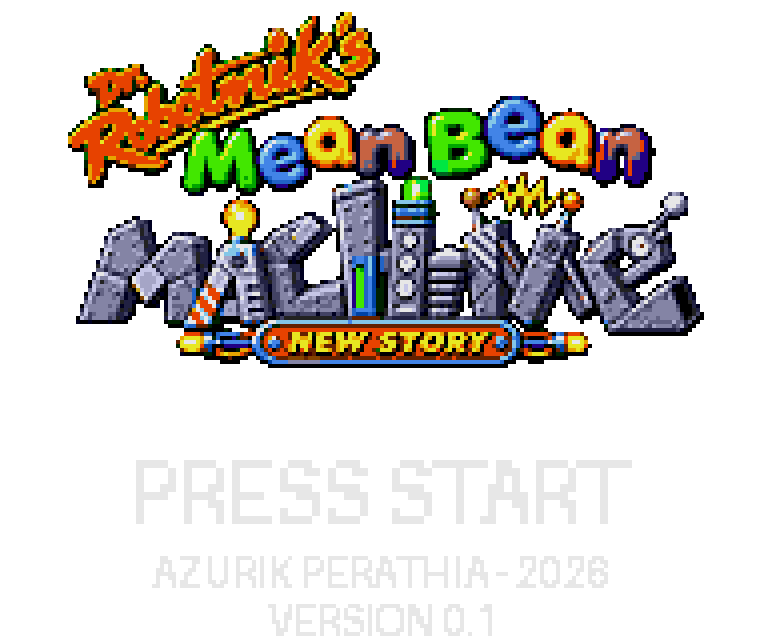
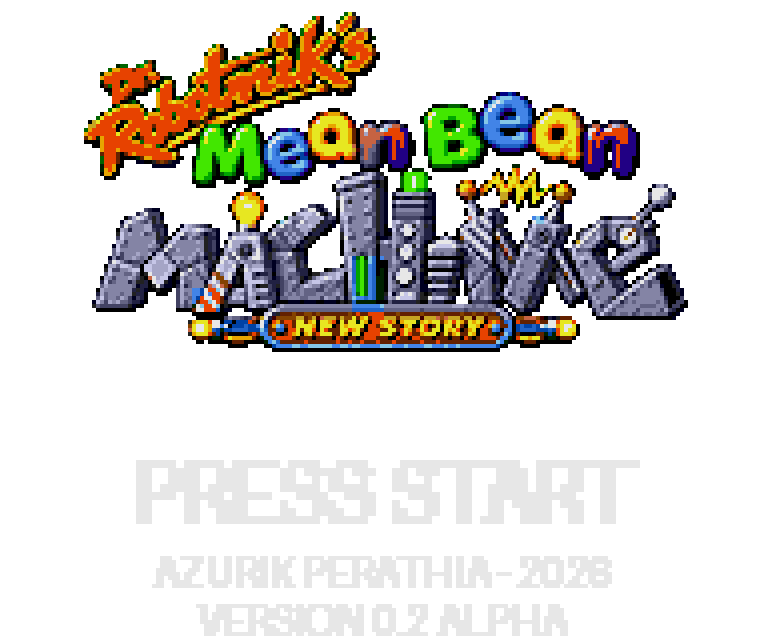
Skip second title and animate New Story screen

Changed region(s): [[0.0938, 0.0, 0.9375, 0.5938]]

diff --git a/tools/build_title_logo.py b/tools/build_title_logo.py
@@ -20,8 +20,8 @@ PALETTE_PATHS = [
 
 WIDTH = 192
 HEIGHT = 160
-LOGO_WIDTH = 160
-LOGO_HEIGHT = 92
+LOGO_WIDTH = 152
+LOGO_HEIGHT = 88
 FIRST_TILE = 0x4B8       # VRAM $9700, immediately after the original title art.
 MAX_TILES = 0x5C0 - FIRST_TILE  # Stop before the h-scroll table at VRAM $B800.
 
@@ -64,16 +64,19 @@ def prepare_image():
         box = draw.textbbox((0, 0), text, font=font)
         x = (WIDTH - (box[2] - box[0])) // 2
         draw.text((x, y), text, font=font, fill=white)
+        draw.text((x + 1, y), text, font=font, fill=white)
 
     # A doubled nearest-neighbour line makes the main prompt unmistakable.
     prompt = Image.new("RGBA", (96, 12))
     prompt_draw = ImageDraw.Draw(prompt)
     prompt_box = prompt_draw.textbbox((0, 0), "PRESS START", font=font)
-    prompt_draw.text(((96 - (prompt_box[2] - prompt_box[0])) // 2, 0), "PRESS START", font=font, fill=white)
+    prompt_x = (96 - (prompt_box[2] - prompt_box[0])) // 2
+    prompt_draw.text((prompt_x, 0), "PRESS START", font=font, fill=white)
+    prompt_draw.text((prompt_x + 1, 0), "PRESS START", font=font, fill=white)
     prompt = prompt.resize((192, 24), Image.Resampling.NEAREST)
     canvas.alpha_composite(prompt, (0, 111))
     centred("AZURIK PERATHIA - 2026", 137)
-    centred("VERSION 0.1", 149)
+    centred("VERSION 0.2 ALPHA", 149)
     return canvas
 
 
